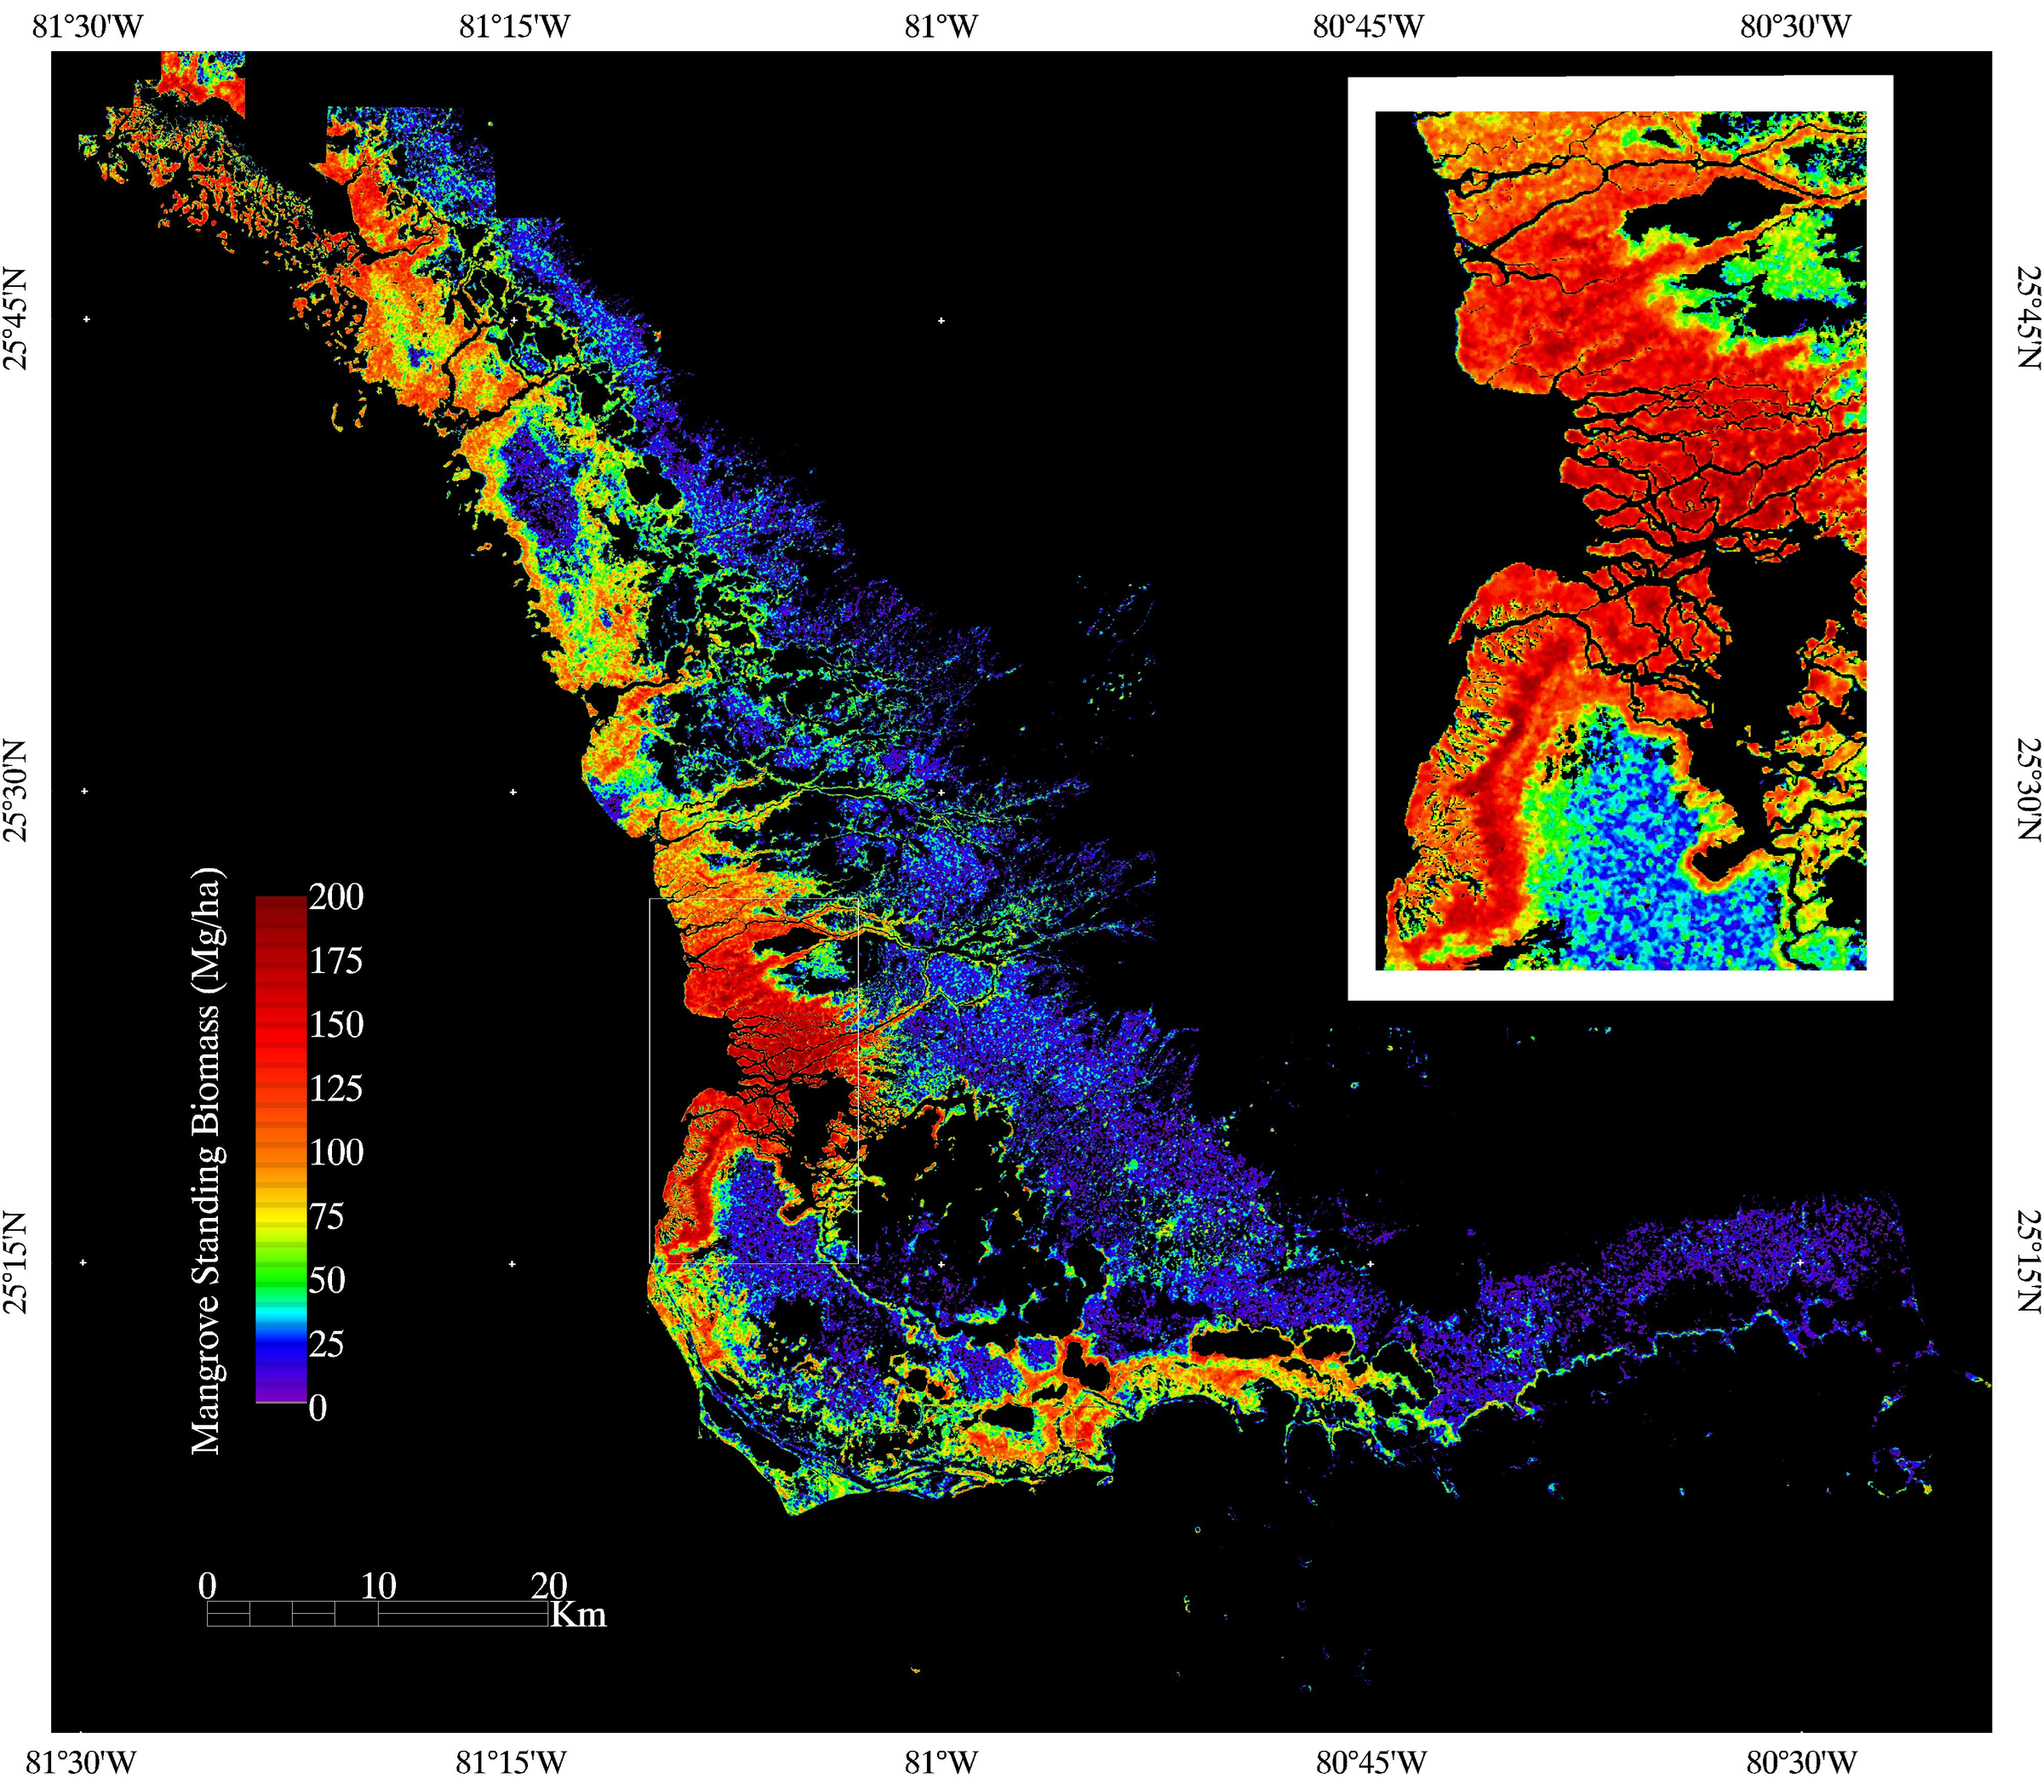
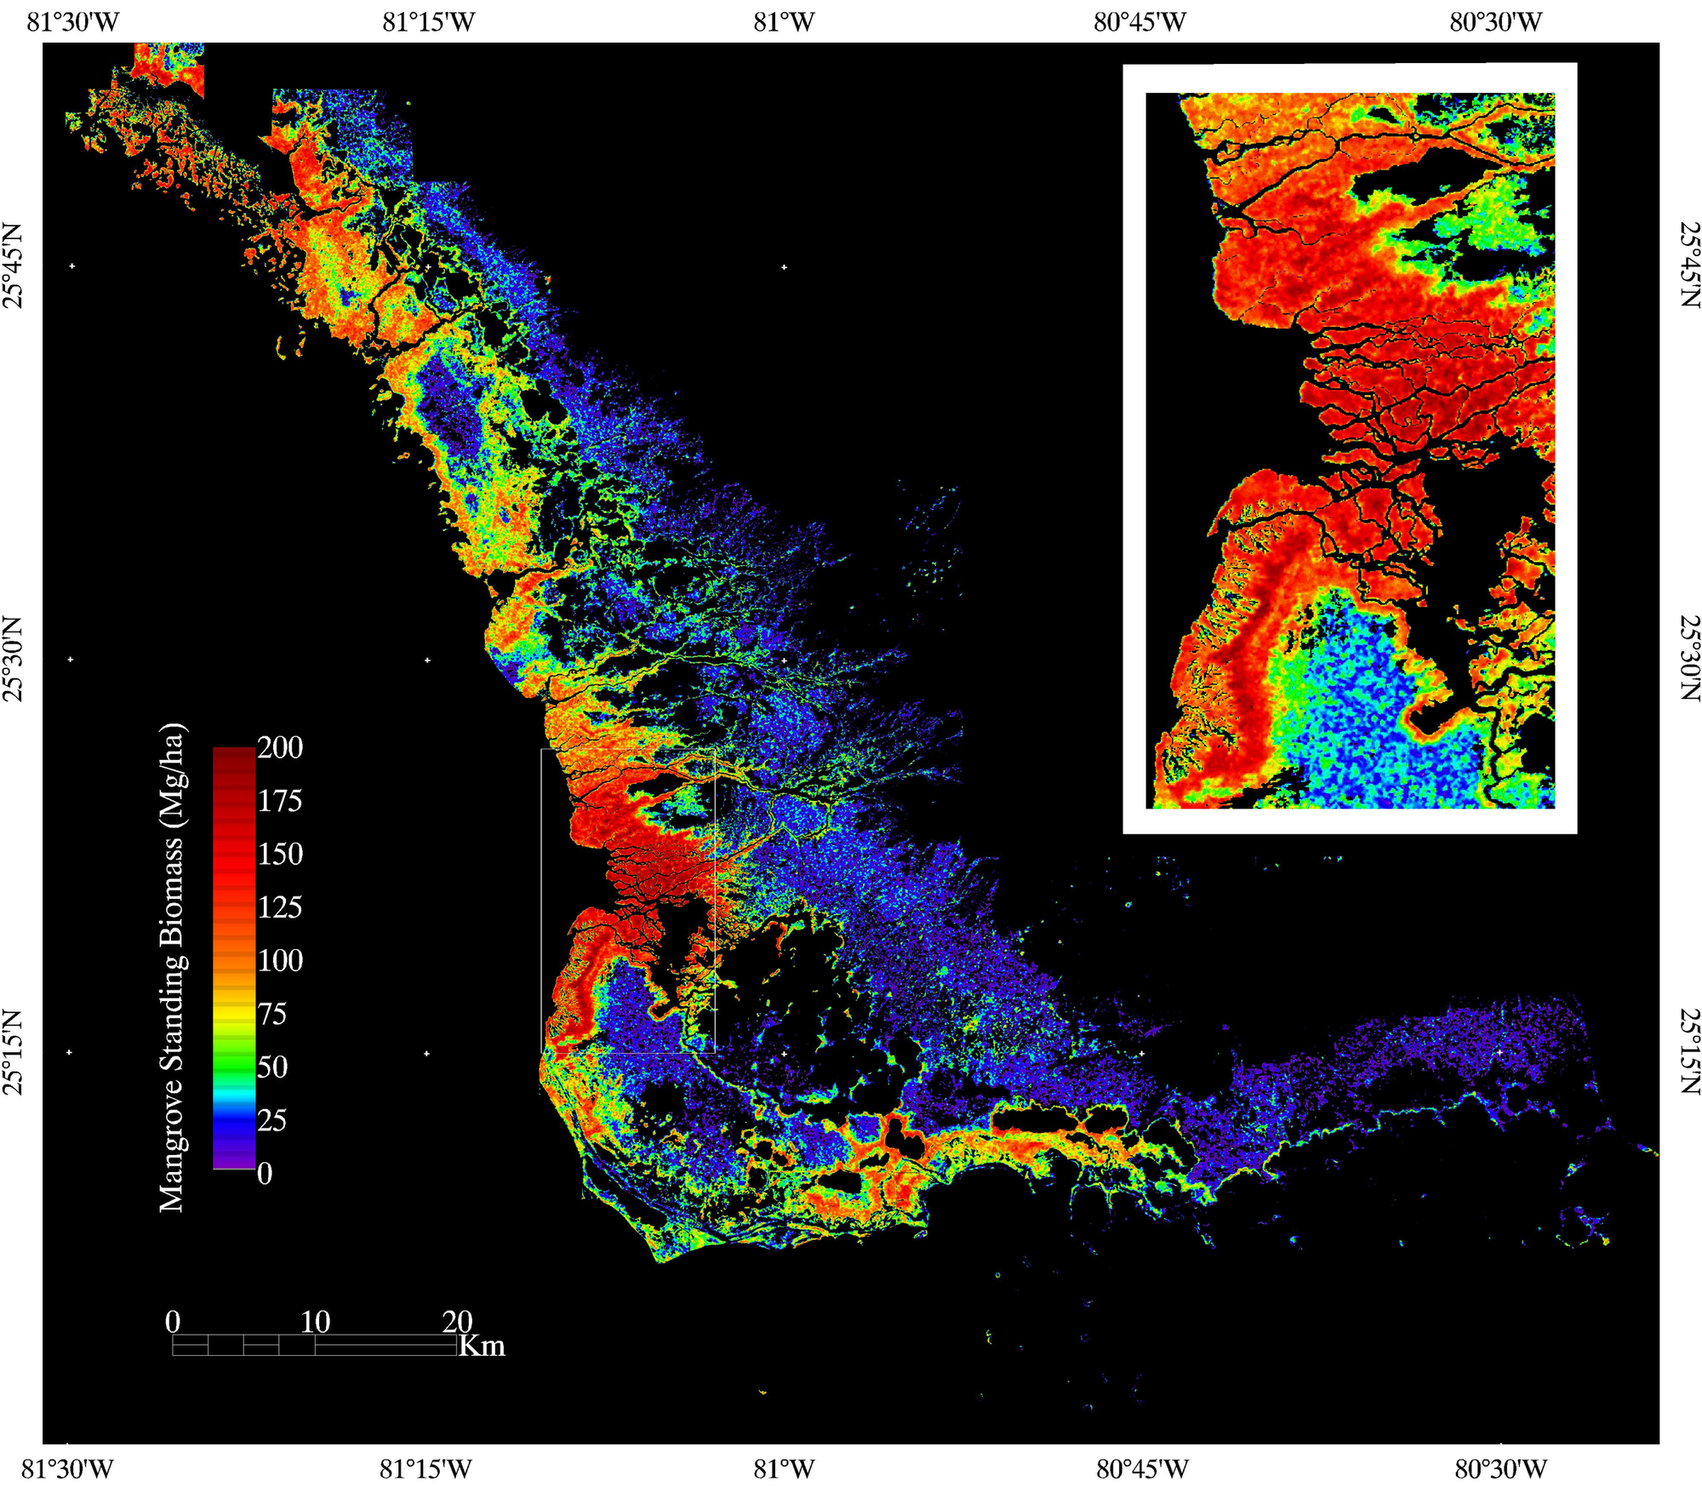
Day 1: photographs to JPEG, text-bearing figures resized instead
slides/day-01/images/ was 39 MB against the repo's ~15 MB per-deck guideline.

Four photographs stored as PNG are now JPEG at quality 85 — ci-cosmo-cougar,
ci-dan-winter-selfie, ci-dan-minibike-baby, ci-byu-group-trip — 14.9 MB down to
1.4 MB. Checked first that none carried real transparency (alpha was 254-255
everywhere), so flattening is safe; the four references in course-introduction.md
now point at .jpg, and the slides render with no white boxes and no visible
artifacts.

Three of the files I had lumped in with them are staying PNG, because they carry
text and the convention is PNG for anything with text: gis-river-land-tirol has
map credits and river labels, gis-mangrove-biomass has axis labels and a legend
over speckled raster on black, which is the worst case for JPEG ringing, and
ci-gis-fundamentals-cover is a book cover with its title on it. All three were
merely oversized at 2300-2400 px for something a slide draws at 300-460 px, so
they were resized to 2000 px and left as PNG: 11.2 MB down to 8.4 MB.

The folder is 23 MB, not the under-15 I estimated when I raised this — that guess
was wrong, and there is no single file left to blame. The handoff records what
getting under the guideline would actually take.

diff --git a/tools/image-improvements-handoff.md b/tools/image-improvements-handoff.md
@@ -101,6 +101,22 @@ same day; the attribute table is a 256-colour palette PNG because it is flat chr
 LANCZOS in RGB made the file bigger than the original, not smaller. Nothing changed on screen: the
 slides display these between 740 and 910 px wide, so the source was always being downscaled.
 
+**Day 1 image weight (partly done 2026-09-17).** `slides/day-01/images/` was 39 MB against the
+~15 MB per-deck guideline. Four photographs that were stored as PNG became JPEG at quality 85:
+`ci-cosmo-cougar`, `ci-dan-winter-selfie`, `ci-dan-minibike-baby`, `ci-byu-group-trip`, together
+14.9 MB down to 1.4 MB. None carried real transparency, so flattening was safe, and the four
+references in `course-introduction.md` were repointed at `.jpg`.
+
+Three files stayed PNG on purpose and were only resized to 2000 px: `gis-river-land-tirol`,
+`gis-mangrove-biomass` and `ci-gis-fundamentals-cover`. All three carry fine text — map credits,
+axis labels, a legend, a book title — and the convention is PNG for anything with text. The
+mangrove figure is also speckled raster on black, which is the worst case for JPEG ringing.
+
+The folder is now 23 MB, not under 15. There is no single file left to blame: the rest is about
+fifty images of 0.2 to 1.1 MB each. Getting under the guideline means going after the tail, most
+obviously by resizing to something nearer the size the slides actually draw them at — the Dr. Ames
+photo grid renders each picture about 190 px wide from 1536 to 2048 px sources.
+
 **Lab 1–2 (lower priority):** UGRC website screenshots still match the live site's
 labels (verified Aug 2026) but predate its current look; QGIS window chrome in older
 shots shows pre-3.44 styling. Refresh opportunistically.

diff --git a/slides/day-01/course-introduction.md b/slides/day-01/course-introduction.md
@@ -183,7 +183,7 @@ Random sample Civil/Environmental/Construction jobs from Monster.com…
 
 <!-- _class: lead -->
 
-![bg brightness:0.55](images/ci-byu-group-trip.png)
+![bg brightness:0.55](images/ci-byu-group-trip.jpg)
 
 # Introductions
 
@@ -214,9 +214,9 @@ Dr. Dan Ames • Dr. James Halgren
 <img src="images/ci-dan-boat-flag.jpg" style="width:100%; height:150px; object-fit:cover;" />
 <img src="images/ci-dan-wakesurfing.jpg" style="width:100%; height:150px; object-fit:cover;" />
 <img src="images/ci-dan-family-wedding.jpg" style="width:100%; height:150px; object-fit:cover;" />
-<img src="images/ci-dan-minibike-baby.png" style="width:100%; height:150px; object-fit:cover;" />
+<img src="images/ci-dan-minibike-baby.jpg" style="width:100%; height:150px; object-fit:cover;" />
 <img src="images/ci-dan-atv-daughter.jpg" style="width:100%; height:150px; object-fit:cover;" />
-<img src="images/ci-dan-winter-selfie.png" style="width:100%; height:150px; object-fit:cover;" />
+<img src="images/ci-dan-winter-selfie.jpg" style="width:100%; height:150px; object-fit:cover;" />
 <img src="images/ci-dan-camp-dinner.jpg" style="width:100%; height:150px; object-fit:cover;" />
 <img src="images/ci-dan-boating-daughter.jpg" style="width:100%; height:150px; object-fit:cover;" />
 
@@ -350,7 +350,7 @@ C. It's complicated
 
 # Who are you?
 
-![bg right:45%](images/ci-cosmo-cougar.png)
+![bg right:45%](images/ci-cosmo-cougar.jpg)
 
 At BYU you're most likely to be found attending:
 
